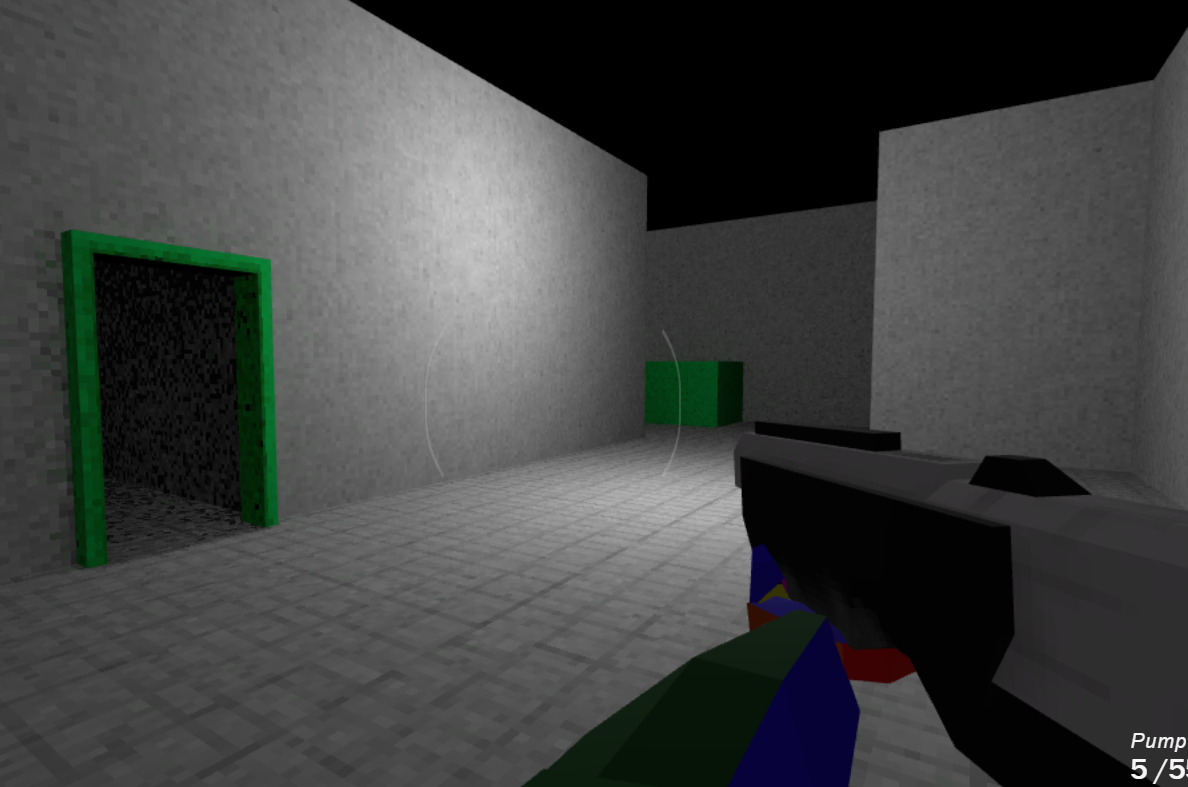
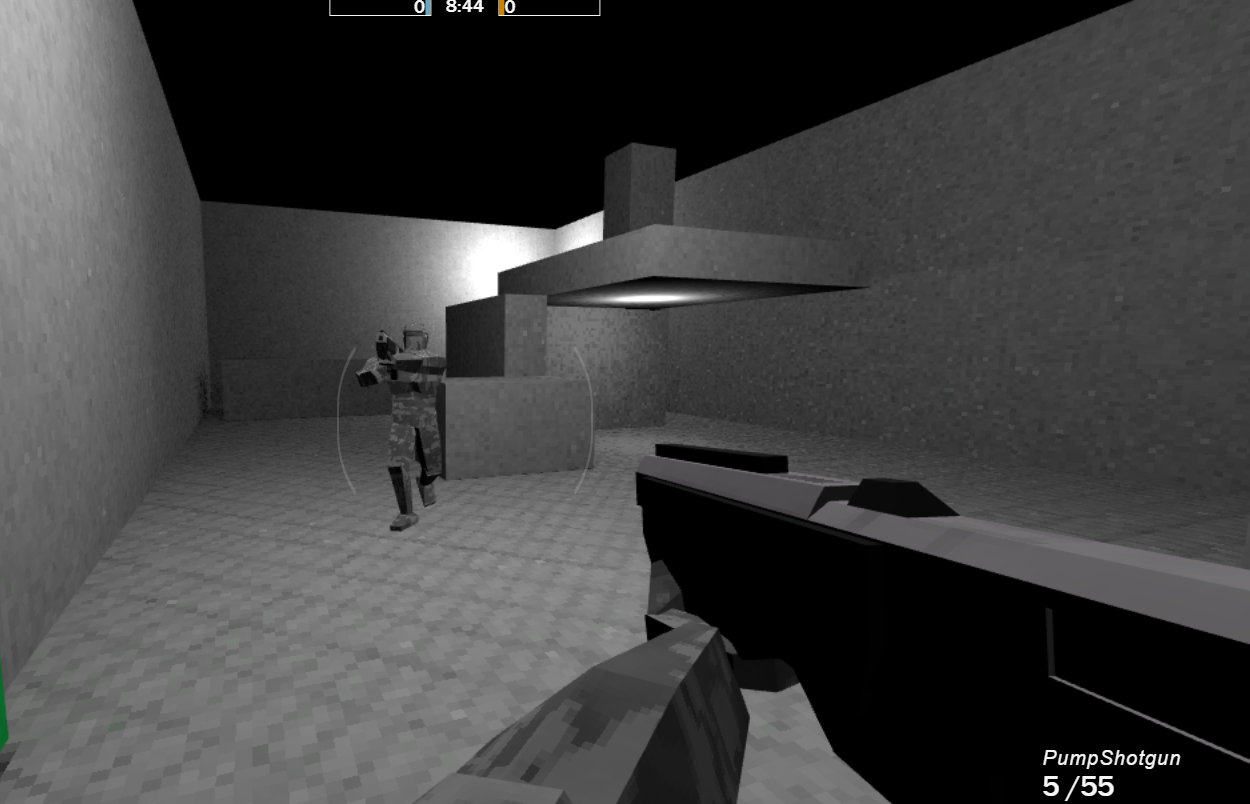
Added Python course to certifications

diff --git a/index.html b/index.html
@@ -29,6 +29,15 @@
                         <li>Maths: A</li>
                         <li>Game Design: D*D*</li>
                     </ul>
+                     <ul>
+                        Other:
+                        <li>8+ years of hobbyist Unity experience.</li>
+                        <li>JavaScript and Python proficiency.</li>
+                        <li>Experience with Java and C#.</li>
+                        <li>Database design and SQL familiarity.</li>
+                        <li>Understanding of a wide range of programs. (e.g: Blender, Photoshop, Gimp, FLStudio...)</li>
+                        <li>Competent with Git workflow and team project collaboration.</li>
+                    </ul>
                     <ul>
                         Certifications:
                         <li><a target="_blank" href="https://www.freecodecamp.org/certification/dan-dingley/front-end-development-libraries-v9"><span class="ignore-link">Front-End Development Libraries</span> (freeCodeCamp)</a><br>
@@ -40,22 +49,16 @@
                         <li><a target="_blank" href="https://www.freecodecamp.org/certification/dan-dingley/javascript-v9"><span class="ignore-link">JavaScript</span> (freeCodeCamp)</a><br>
                             <span class="subtext">DOM Manipulation, Regex, Client-Side Storage(CRUD), Asynchronous Programming...</span>
                         </li>
-                        </ul>
-                    <ul>
-                        Other:
-                        <li>8+ years of hobbyist Unity experience.</li>
-                        <li>JavaScript and Python proficiency.</li>
-                        <li>Experience with Java and C#.</li>
-                        <li>Database design and SQL familiarity.</li>
-                        <li>Understanding of a wide range of programs. (e.g: Blender, Photoshop, Gimp, FLStudio...)</li>
-                        <li>Competent with Git workflow and team project collaboration.</li>
+                        <li><a target="_blank" href="https://www.freecodecamp.org/certification/dan-dingley/python-v9"><span class="ignore-link">Python</span> (freeCodeCamp)</a><br>
+                            <span class="subtext">Error Handling, Dynamic Programming, OOP, Big O Notation...</span>
+                        </li>
                     </ul>
                 </div>
             </div>
             <div class="spacing"></div>
-            <div class="central-content align-center"> <!--Featured Projects-->
-                <h2 class="no-border">My Projects:</h2>
-            </div>
+            <!--<div class="central-content align-center">--> <!--Featured Projects-->
+                <!-- <h2 class="no-border">My Projects:</h2> -->
+            <!--</div>-->
             <div id="projects-list"></div>
             <br><br>
             <div class="spacing"></div>

diff --git a/styles.css b/styles.css
@@ -568,11 +568,13 @@ em
 }
 .expand-btn {
     display: block;
-    height: 1.4em;
+    width: 40%;
+    min-width: 300px;
+    height: 1.2em;
     cursor: pointer;
-    margin: 0; text-align: center; padding: 10px;
-    --bgA: rgba(60, 60, 60, 0.6); --bgB: rgba(20, 20, 20, 0.6); --bgC: rgba(40, 40, 40, 0.6);
-    background: linear-gradient(var(--bgC) 10%, var(--bgA) 85%, var(--bgC));
+    margin: auto; text-align: center; padding: 10px;
+    --bgA: rgba(60, 60, 60, 0.9); --bgB: rgba(20, 20, 20, 0.9); --bgC: rgba(40, 40, 40, 0.9);
+    background: linear-gradient(var(--bgA) 10%, 85%, var(--bgC));
     color: grey;
     opacity: 0.6;
     padding-top: 20px;
@@ -590,12 +592,11 @@ em
     }
 }
 .expand-btn:hover {
-    padding-top: 20px;
     background: linear-gradient(var(--bgA) 10%, 85%, var(--bgC));
     color: lightgray;
     font-weight: bold;
     opacity: 1;
-    height: 1.4em;
+    height: 1.2em;
     >span::after{
         content: " << ▼";
     }
